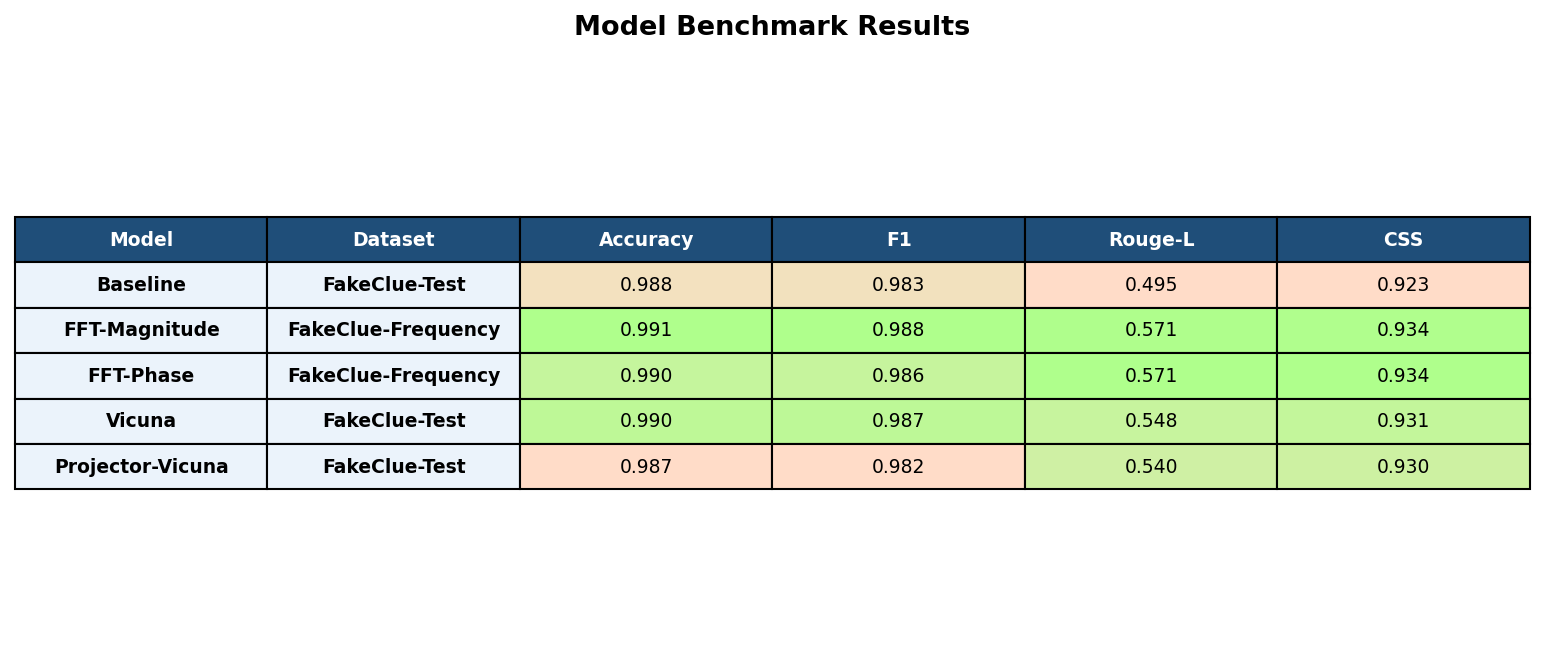
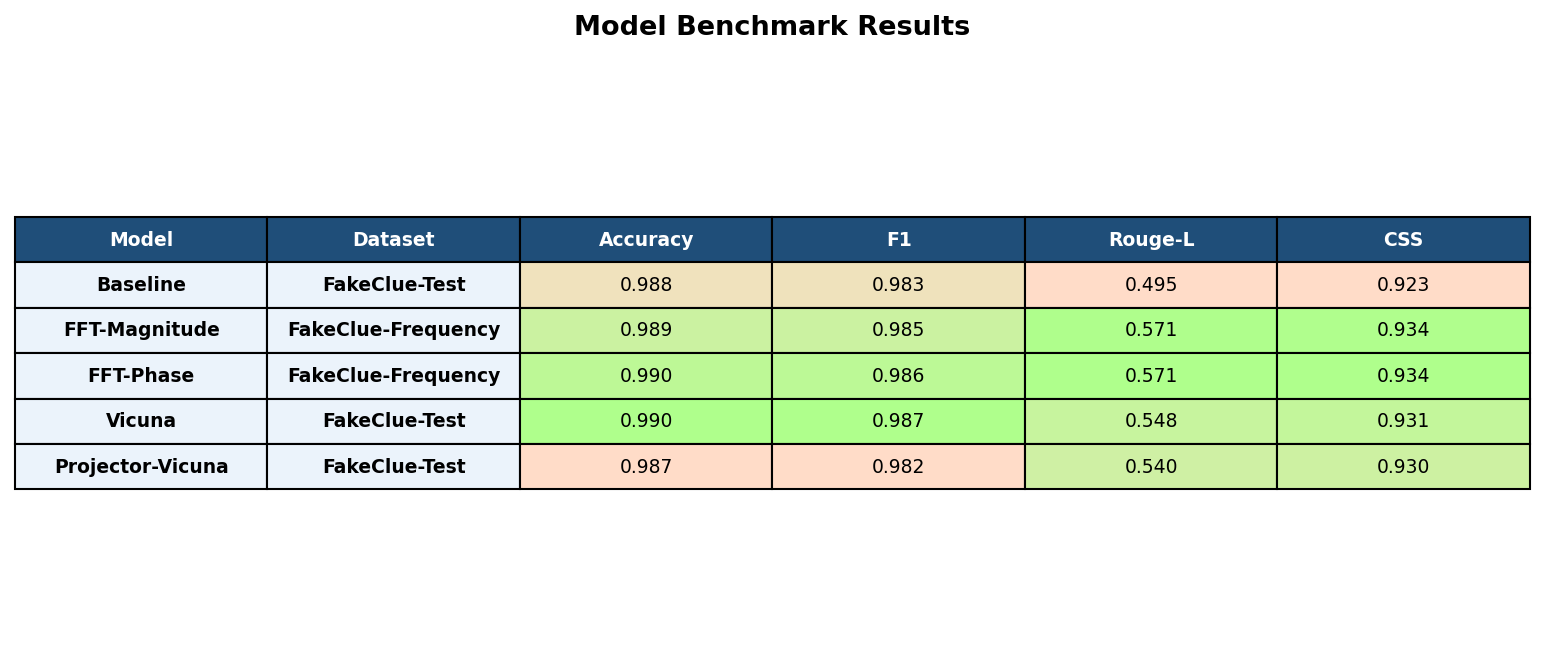
Adjust benchmarking to avoid unrecognized images

Changed region(s): [[0.3109, 0.4505, 0.6839, 0.5405]]

diff --git a/projects/ed-xai/ed-xai/benchmarking/error_analysis.py b/projects/ed-xai/ed-xai/benchmarking/error_analysis.py
@@ -1,0 +1,90 @@
+"""
+Per-category error analysis across model configurations.
+
+Run from ed-xai/ed-xai/:
+
+    python -m benchmarking.error_analysis \
+        --dataset ../data/external/FakeClue/data_json/test.json \
+        --model "Baseline"      ../reports/evaluation/baseline/eval_results.json \
+        --model "Magnitude"     ../reports/evaluation/fft/eval_results.json \
+        --model "Phase"         ../reports/evaluation/fft_phase/eval_results.json \
+        --model "LoRA Vicuna"   ../reports/evaluation/lora_vicuna/eval_results.json \
+        --model "LoRA Vic+Proj" ../reports/evaluation/lora_vicuna_projector/eval_results.json
+"""
+import argparse
+import json
+from collections import Counter
+
+
+def parse_prediction(response: str) -> int:
+    """Match the benchmarker logic: check first sentence for real/fake,
+    return -1 when undecided so unrecognized responses count as errors."""
+    idx = response.find("ASSISTANT:")
+    text = response[idx:] if idx >= 0 else response
+    first_sentence = text.split(".")[0].lower()
+    if "real" in first_sentence:
+        return 1
+    if "fake" in first_sentence:
+        return 0
+    return -1
+
+
+def main():
+    parser = argparse.ArgumentParser(description="Per-category error analysis.")
+    parser.add_argument(
+        "--dataset", required=True,
+        help="Path to FakeClue test JSON (with 'cate' field).",
+    )
+    parser.add_argument(
+        "--model", nargs=2, metavar=("NAME", "RESULTS_JSON"),
+        action="append", required=True,
+        help="Model name and eval_results.json path. Repeatable.",
+    )
+    args = parser.parse_args()
+
+    with open(args.dataset) as f:
+        dataset = json.load(f)
+    img_to_cat = {entry["image"]: entry["cate"] for entry in dataset}
+
+    categories = sorted(set(img_to_cat.values()))
+    cat_totals = Counter(img_to_cat.values())
+
+    model_names = []
+    model_errors = []
+
+    for name, path in args.model:
+        with open(path) as f:
+            results = json.load(f)
+
+        errors = Counter()
+        for entry in results:
+            pred = parse_prediction(entry["response"])
+            if pred != entry["ground_truth_label"]:
+                cat = img_to_cat.get(entry["image"], "unknown")
+                errors[cat] += 1
+
+        model_names.append(name)
+        model_errors.append(errors)
+
+    header = ["Category", "Images"] + model_names
+    print(" | ".join(header))
+    print(" | ".join(["---"] * len(header)))
+
+    totals = [0] * len(model_names)
+    for cat in categories:
+        row = [cat, str(cat_totals[cat])]
+        for i, errors in enumerate(model_errors):
+            count = errors.get(cat, 0)
+            totals[i] += count
+            row.append(str(count))
+        print(" | ".join(row))
+
+    total_images = sum(cat_totals.values())
+    row = ["**Total**", f"**{total_images}**"]
+    for t in totals:
+        row.append(f"**{t}**")
+    print(" | ".join(row))
+
+
+if __name__ == "__main__":
+    main()

diff --git a/projects/ed-xai/ed-xai/benchmarking/metrics/classification.py b/projects/ed-xai/ed-xai/benchmarking/metrics/classification.py
@@ -7,8 +7,9 @@ from .base import MetricFn
 # ---------------------------------------------------------------------------
 
 def _accuracy(y_true: List[int], y_pred: List[int], **kwargs) -> float:
-    from sklearn.metrics import accuracy_score
-    return round(float(accuracy_score(y_true, y_pred)), 4)
+    n = len(y_true)
+    correct = sum(t == p for t, p in zip(y_true, y_pred))
+    return round(correct / n, 4) if n else 0.0
 
 
 def _auc(y_true: List[int], y_score: List[float], **kwargs) -> float:
@@ -21,7 +22,8 @@ def _auc(y_true: List[int], y_score: List[float], **kwargs) -> float:
 
 def _f1(y_true: List[int], y_pred: List[int], **kwargs) -> float:
     from sklearn.metrics import f1_score
-    return round(float(f1_score(y_true, y_pred, zero_division=0)), 4)
+    yp = [p if p in (0, 1) else (1 - t) for t, p in zip(y_true, y_pred)]
+    return round(float(f1_score(y_true, yp, zero_division=0)), 4)
 
 
 def _avg_precision(y_true: List[int], y_score: List[float], **kwargs) -> float:

diff --git a/projects/ed-xai/ed-xai/benchmarking/benchmarker.py b/projects/ed-xai/ed-xai/benchmarking/benchmarker.py
@@ -28,14 +28,15 @@ def _response_to_pred_and_score(response: str):
     Matches the FakeVLM eval_vllm.py logic: check if 'real' or 'fake' appears
     in the first sentence (split on '.'), with 'real' taking priority.
     Returns (y_pred, y_score): y_pred is 0=fake/1=real, y_score is 1.0/0.0.
-    Defaults to fake (0, 0.0) when undecided.
+    Returns (-1, 0.0) when neither keyword is found, ensuring unrecognized
+    responses are counted as errors regardless of ground truth.
     """
     first_sentence = _extract_assistant_text(response).split('.')[0].lower()
     if 'real' in first_sentence:
         return 1, 1.0
     elif 'fake' in first_sentence:
         return 0, 0.0
-    return 0, 0.0
+    return -1, 0.0
 
 
 class Benchmarker: